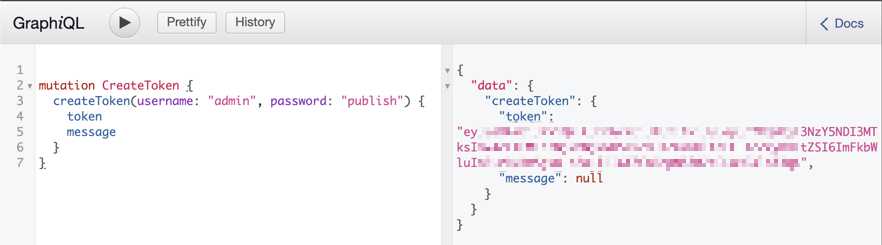
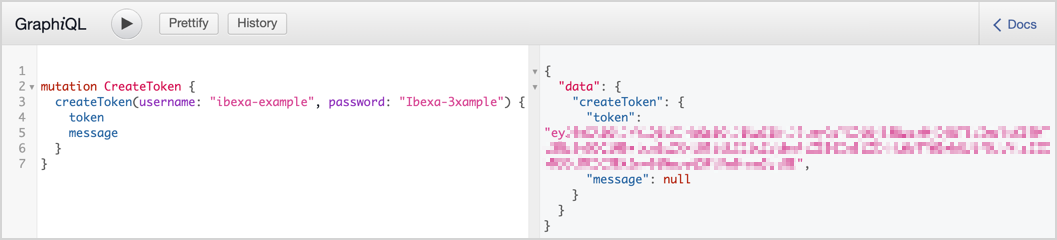
MCP server user account

diff --git a/docs/ai/mcp/mcp_config.md b/docs/ai/mcp/mcp_config.md
@@ -7,7 +7,9 @@ month_change: true
 
 [[= product_name =]] can provide [MCP servers](mcp_guide.md) to external AIs.
 
-## JWT
+## Authentication
+
+### JWT
 
 MCP servers use JWT for authentication.
 
@@ -27,6 +29,11 @@ in [REST JWT authentication](rest_api_authentication.md#jwt-authentication),
 in [cURL test of MCP server](#curl-test),
 in [GraphQL JWT authentication](graphql.md#jwt-authentication),
 or in [MCP Inspector test](#mcp-inspector-test) GraphIQL example.
+
+### Repository user
+
+- The user can generate a JWT token with their own account, or a secondary dedicated account, and pass the token to the MCP client.
+- A gateway can use a dedicated shared user to generate a JWT token and establish the connection.
 
 ## MCP server configuration
 
@@ -221,6 +228,12 @@ To add descriptions, use a DocBlock comment with `@param` tags.
 
 To focus on the MCP server configuration and capabilities creation, this example doesn't even interact with [[= product_name =]] repository.
 
+### User account
+
+In this example, the MCP server uses JWT tokens created with a dedicated account.
+
+In [[= product_name =]]'s back office, create a user, for example, in **Guest accounts** user group, with login `ibexa-example`, and password `Ibexa-3xample`.
+
 ### Configure MCP server
 
 This example introduce an `example` MCP server with a single `greet` tool.
@@ -360,7 +373,7 @@ For example, you can open GraphiQL UI (for example at `http://localhost/graphiql
 
 ```graphql
 mutation CreateToken {
-  createToken(username: "admin", password: "publish") {
+  createToken(username: "ibexa-example", password: "Ibexa-3xample") {
     token
     message
   }
